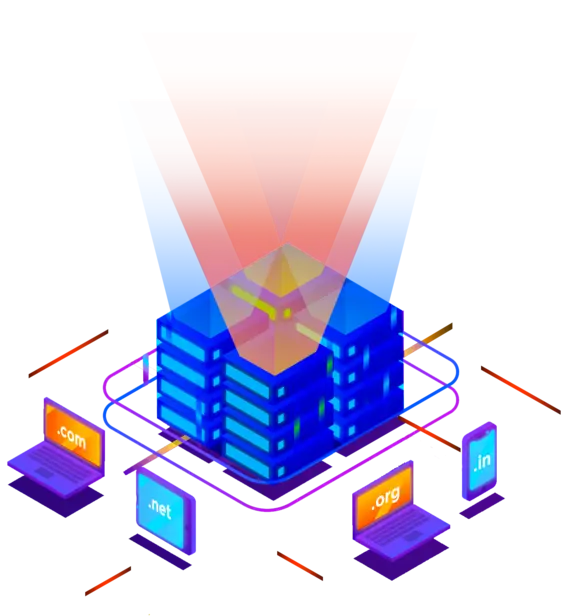
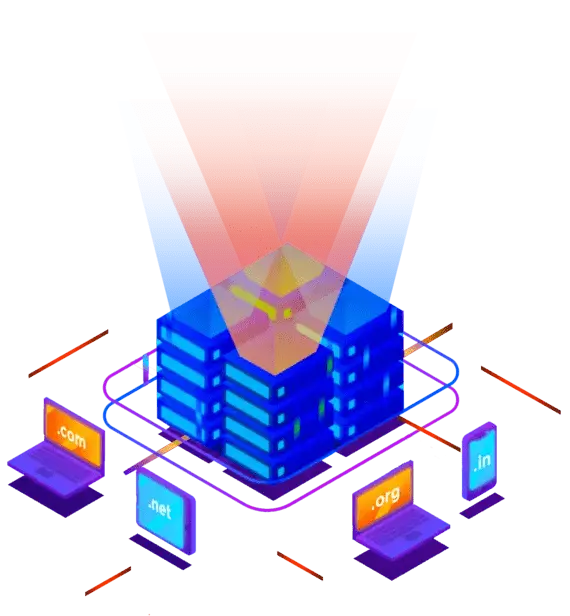
Optimizing Images and updating Hero component

diff --git a/index.html b/index.html
@@ -19,7 +19,11 @@
                 <p class="hero__tagline">Deploy your website in less than 60 seconds.</p>
                 <a href="#" class="btn btn--accent btn--stretched">Get Started</a>
             </header>
-            <img src="images/banner.png" alt="" class="hero__image">
+            <picture>
+                <source type="image/webp" srcset="images/banner.webp 1x, images/banner@2x.webp 2x">
+                <source type="image/png" srcset="images/banner.png 1x, images/banner@2x.png 2x">
+                <img src="images/banner.png" alt="" class="hero__image">
+            </picture>
         </div>
     </section>
 

diff --git a/components/hero.html b/components/hero.html
@@ -5,6 +5,10 @@
             <p class="hero__tagline">Deploy your website in less than 60 seconds.</p>
             <a href="#" class="btn btn--accent btn--stretched">Get Started</a>
         </header>
-        <img src="images/banner.png" alt="" class="hero__image">
+        <picture>
+            <source type="image/webp" srcset="images/banner.webp 1x, images/banner@2x.webp 2x">
+            <source type="image/png" srcset="images/banner.png 1x, images/banner@2x.png 2x">
+            <img src="images/banner.png" alt="" class="hero__image">
+        </picture>
     </div>
 </section>
